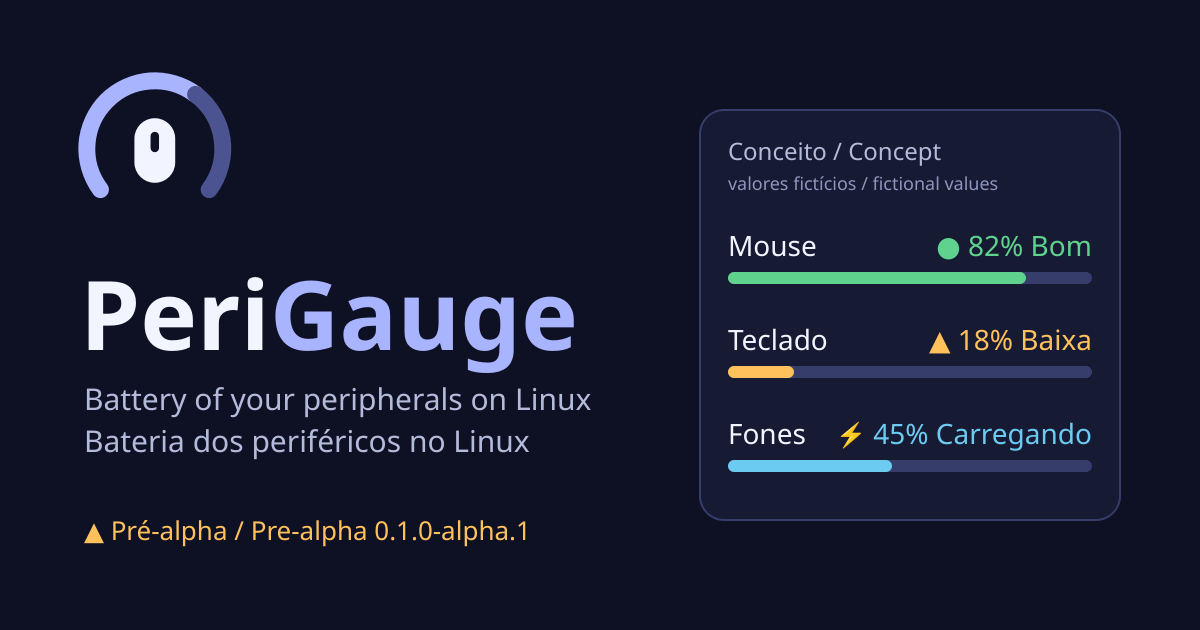
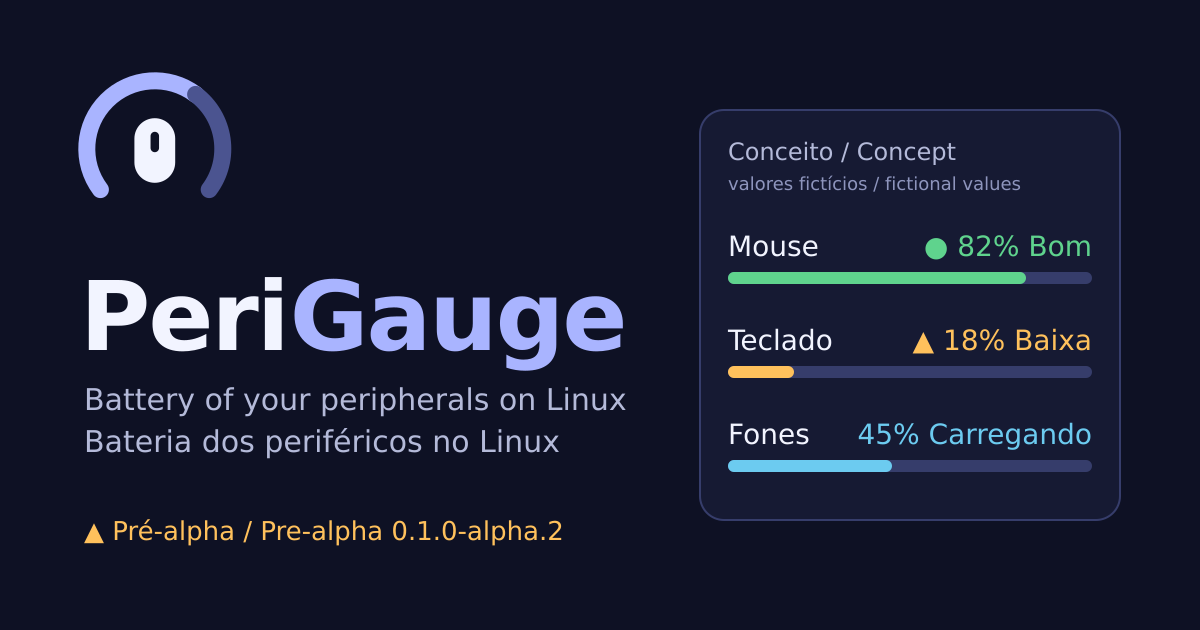
chore(release): prepare 0.1.0-alpha.2

diff --git a/docs/index.html b/docs/index.html
@@ -4,7 +4,7 @@
 <meta charset="utf-8">
 <meta name="viewport" content="width=device-width,initial-scale=1">
 <title>PeriGauge — bateria dos seus periféricos no Linux</title>
-<meta name="description" content="Monitor de bateria de mouses, teclados e fones Bluetooth para o desktop Linux. Núcleo em Rust, local, sem rede e sem telemetria. Pré-alpha 0.1.0-alpha.1.">
+<meta name="description" content="Monitor de bateria de mouses, teclados e fones Bluetooth para o desktop Linux. Núcleo em Rust, local, sem rede e sem telemetria. Pré-alpha 0.1.0-alpha.2.">
 <meta name="color-scheme" content="light dark">
 <meta name="theme-color" content="#F6F7FC" media="(prefers-color-scheme: light)">
 <meta name="theme-color" content="#0E1124" media="(prefers-color-scheme: dark)">
@@ -16,12 +16,12 @@
 <meta property="og:site_name" content="PeriGauge">
 <meta property="og:locale" content="pt_BR">
 <meta property="og:title" content="PeriGauge — bateria dos seus periféricos no Linux">
-<meta property="og:description" content="Monitor de bateria de mouses, teclados e fones Bluetooth para o desktop Linux. Núcleo em Rust, local, sem rede e sem telemetria. Pré-alpha 0.1.0-alpha.1.">
+<meta property="og:description" content="Monitor de bateria de mouses, teclados e fones Bluetooth para o desktop Linux. Núcleo em Rust, local, sem rede e sem telemetria. Pré-alpha 0.1.0-alpha.2.">
 <meta property="og:image" content="https://caiolombello.github.io/perigauge/assets/perigauge-social-card.png">
 <meta property="og:image:type" content="image/png">
 <meta property="og:image:width" content="1200">
 <meta property="og:image:height" content="630">
-<meta property="og:image:alt" content="PeriGauge: bateria dos periféricos no Linux. Pré-alpha 0.1.0-alpha.1.">
+<meta property="og:image:alt" content="PeriGauge: bateria dos periféricos no Linux. Pré-alpha 0.1.0-alpha.2.">
 <meta name="twitter:card" content="summary_large_image">
 <link rel="icon" type="image/svg+xml" href="assets/favicon.svg">
 <link rel="stylesheet" href="style.css">
@@ -40,7 +40,7 @@
  <symbol id="i-gen" viewBox="0 0 24 24"><circle cx="12" cy="12" r="9"/><path d="M12 11v5M12 8v.1"/></symbol>
 </svg>
 
-<p class="prerelease"><span class="wrap" style="display:block"><strong>Pré-alpha 0.1.0-alpha.1.</strong> Verificado em hardware só com o Keychron M6; Logitech e Galaxy Buds ainda dependem de validação em hardware.</span></p>
+<p class="prerelease"><span class="wrap" style="display:block"><strong>Pré-alpha 0.1.0-alpha.2.</strong> Leituras verificadas em hardware com Keychron M6 e Galaxy Buds3 Pro; Logitech ainda depende de validação em hardware.</span></p>
 
 <header class="site-header">
  <div class="wrap header-inner">
@@ -62,7 +62,7 @@
   <div>
    <span class="badge">Pré-alpha · Linux · KDE Plasma 6 primeiro</span>
    <h1>A bateria do mouse, do teclado e dos fones, no seu painel.</h1>
-   <p class="lead">PeriGauge mostra o nível de bateria dos seus periféricos Bluetooth no painel e num popup, e avisa antes de acabar. Um único binário em Rust, tudo local: sem Solaar, sem rede, sem telemetria.</p>
+   <p class="lead">PeriGauge mostra um medidor por dispositivo no painel, na área de trabalho e num popup, e avisa antes de acabar. Escolha gauge circular ou barras, incluindo fone esquerdo, direito e estojo. Um único binário em Rust, tudo local: sem Solaar, sem rede, sem telemetria.</p>
    <div class="actions">
     <a class="btn" href="#instalar">Ver instalação (pré-alpha)</a>
     <a class="btn btn-ghost" href="#dispositivos">Dispositivos suportados</a>
@@ -97,7 +97,7 @@
    <tbody>
     <tr><th scope="row">Keychron M6</th><td>Receptor Keychron Ultra-Link 8K</td><td>Protocolo HID de fornecedor</td><td><span class="state s-ok"><svg class="" aria-hidden="true" focusable="false"><use href="#i-ok"/></svg>Verificado em hardware</span></td><td>Lido de um M6 real pelo receptor Ultra-Link 8K.</td></tr>
     <tr><th scope="row">Logitech MX Keys · MX Master 3S</th><td>Receptor Bolt ou Bluetooth</td><td>HID++ 2.0 direto (sem Solaar)</td><td><span class="state s-warn"><svg class="" aria-hidden="true" focusable="false"><use href="#i-dev"/></svg>Em desenvolvimento</span></td><td>Testes com fixtures; hardware pendente.</td></tr>
-    <tr><th scope="row">Samsung Galaxy Buds3 Pro</th><td>Bluetooth</td><td>Protocolo SPP da Samsung</td><td><span class="state s-warn"><svg class="" aria-hidden="true" focusable="false"><use href="#i-dev"/></svg>Em desenvolvimento</span></td><td>Fone esquerdo, direito e estojo.</td></tr>
+    <tr><th scope="row">Samsung Galaxy Buds3 Pro</th><td>Bluetooth</td><td>Protocolo SPP da Samsung</td><td><span class="state s-ok"><svg class="" aria-hidden="true" focusable="false"><use href="#i-ok"/></svg>Verificado em hardware</span></td><td>Leituras de fone esquerdo, direito e estojo verificadas em hardware.</td></tr>
     <tr><th scope="row">Qualquer dispositivo que o UPower/BlueZ já reporte</th><td>Bluetooth / USB</td><td>UPower e BlueZ (power_supply do kernel, BLE Battery Service, HFP)</td><td><span class="state s-stale"><svg class="" aria-hidden="true" focusable="false"><use href="#i-gen"/></svg>Genérico / esperado</span></td><td>Depende do que o dispositivo reporta; não é garantia por modelo.</td></tr>
    </tbody>
   </table>
@@ -145,11 +145,11 @@
   <h2>Instalação (pré-alpha)</h2>
   <p class="lead">Binário para Linux x86_64 com glibc 2.39 ou superior, testado no Ubuntu 26.04 com KDE Plasma 6. Confira o checksum e simule antes de instalar; tudo vai para o seu usuário, sem sudo. Para compilar do código-fonte, veja o README.</p>
   <div class="code"><pre id="cmds"><code># baixar a release e conferir o checksum
-curl -LO https://github.com/caiolombello/perigauge/releases/download/v0.1.0-alpha.1/perigauge-0.1.0-alpha.1-x86_64-linux.tar.gz
-curl -LO https://github.com/caiolombello/perigauge/releases/download/v0.1.0-alpha.1/SHA256SUMS
+curl -LO https://github.com/caiolombello/perigauge/releases/download/v0.1.0-alpha.2/perigauge-0.1.0-alpha.2-x86_64-linux.tar.gz
+curl -LO https://github.com/caiolombello/perigauge/releases/download/v0.1.0-alpha.2/SHA256SUMS
 sha256sum -c SHA256SUMS
-tar xf perigauge-0.1.0-alpha.1-x86_64-linux.tar.gz
-cd perigauge-0.1.0-alpha.1
+tar xf perigauge-0.1.0-alpha.2-x86_64-linux.tar.gz
+cd perigauge-0.1.0-alpha.2
 # simular; depois instalar com o serviço de notificações
 ./install.sh --dry-run
 ./install.sh --enable-service</code></pre></div>
@@ -166,8 +166,8 @@ cd perigauge-0.1.0-alpha.1
   <p class="eyebrow">Roadmap</p>
   <h2>O que vem a seguir</h2>
   <ul class="grid">
-   <li class="card"><h3>0.1.0-alpha.1</h3><p>Primeiro pré-lançamento, publicado em outubro de 2026.</p></li>
-   <li class="card"><h3>Plasmoid KDE Plasma 6</h3><p>Widget no painel (ícone e popup) e na área de trabalho (medidor, lista ou grade).</p></li>
+   <li class="card"><h3>0.1.0-alpha.2</h3><p>Medidores por dispositivo e alternância entre gauge e barras. Publicado em outubro de 2026.</p></li>
+   <li class="card"><h3>Plasmoid KDE Plasma 6</h3><p>Baterias sempre à vista no painel e na área de trabalho; popup com o mesmo estilo do painel.</p></li>
    <li class="card"><h3>Extensão GNOME Shell</h3><p>Planejada para depois do plasmoid.</p></li>
    <li class="card"><h3>Mais dispositivos</h3><p>Mais periféricos conforme houver hardware para verificar. Cada um com seu nível de evidência.</p></li>
   </ul>

diff --git a/docs/en/index.html b/docs/en/index.html
@@ -4,7 +4,7 @@
 <meta charset="utf-8">
 <meta name="viewport" content="width=device-width,initial-scale=1">
 <title>PeriGauge — peripheral battery on your Linux desktop</title>
-<meta name="description" content="Battery monitor for Bluetooth mice, keyboards and headphones on the Linux desktop. Rust core, fully local, no network, no telemetry. Pre-alpha 0.1.0-alpha.1.">
+<meta name="description" content="Battery monitor for Bluetooth mice, keyboards and headphones on the Linux desktop. Rust core, fully local, no network, no telemetry. Pre-alpha 0.1.0-alpha.2.">
 <meta name="color-scheme" content="light dark">
 <meta name="theme-color" content="#F6F7FC" media="(prefers-color-scheme: light)">
 <meta name="theme-color" content="#0E1124" media="(prefers-color-scheme: dark)">
@@ -16,12 +16,12 @@
 <meta property="og:site_name" content="PeriGauge">
 <meta property="og:locale" content="en_US">
 <meta property="og:title" content="PeriGauge — peripheral battery on your Linux desktop">
-<meta property="og:description" content="Battery monitor for Bluetooth mice, keyboards and headphones on the Linux desktop. Rust core, fully local, no network, no telemetry. Pre-alpha 0.1.0-alpha.1.">
+<meta property="og:description" content="Battery monitor for Bluetooth mice, keyboards and headphones on the Linux desktop. Rust core, fully local, no network, no telemetry. Pre-alpha 0.1.0-alpha.2.">
 <meta property="og:image" content="https://caiolombello.github.io/perigauge/assets/perigauge-social-card.png">
 <meta property="og:image:type" content="image/png">
 <meta property="og:image:width" content="1200">
 <meta property="og:image:height" content="630">
-<meta property="og:image:alt" content="PeriGauge: peripheral battery on Linux. Pre-alpha 0.1.0-alpha.1.">
+<meta property="og:image:alt" content="PeriGauge: peripheral battery on Linux. Pre-alpha 0.1.0-alpha.2.">
 <meta name="twitter:card" content="summary_large_image">
 <link rel="icon" type="image/svg+xml" href="../assets/favicon.svg">
 <link rel="stylesheet" href="../style.css">
@@ -40,7 +40,7 @@
  <symbol id="i-gen" viewBox="0 0 24 24"><circle cx="12" cy="12" r="9"/><path d="M12 11v5M12 8v.1"/></symbol>
 </svg>
 
-<p class="prerelease"><span class="wrap" style="display:block"><strong>Pre-alpha 0.1.0-alpha.1.</strong> Verified on hardware only with the Keychron M6; Logitech and Galaxy Buds still await hardware validation.</span></p>
+<p class="prerelease"><span class="wrap" style="display:block"><strong>Pre-alpha 0.1.0-alpha.2.</strong> Battery readings verified on hardware with Keychron M6 and Galaxy Buds3 Pro; Logitech still awaits hardware validation.</span></p>
 
 <header class="site-header">
  <div class="wrap header-inner">
@@ -62,7 +62,7 @@
   <div>
    <span class="badge">Pre-alpha · Linux · KDE Plasma 6 first</span>
    <h1>Your mouse, keyboard and headphone battery, right in your panel.</h1>
-   <p class="lead">PeriGauge shows the battery level of your Bluetooth peripherals in the panel and in a popup, and warns you before they run out. A single Rust binary, fully local: no Solaar, no network, no telemetry.</p>
+   <p class="lead">PeriGauge shows a meter for each device in the panel, on the desktop and in a popup, and warns you before they run out. Choose circular gauges or bars, including left bud, right bud and case. A single Rust binary, fully local: no Solaar, no network, no telemetry.</p>
    <div class="actions">
     <a class="btn" href="#instalar">See install (pre-alpha)</a>
     <a class="btn btn-ghost" href="#dispositivos">Supported devices</a>
@@ -97,7 +97,7 @@
    <tbody>
     <tr><th scope="row">Keychron M6</th><td>Keychron Ultra-Link 8K receiver</td><td>Vendor HID protocol</td><td><span class="state s-ok"><svg class="" aria-hidden="true" focusable="false"><use href="#i-ok"/></svg>Verified on hardware</span></td><td>Read from a real M6 through the Ultra-Link 8K receiver.</td></tr>
     <tr><th scope="row">Logitech MX Keys · MX Master 3S</th><td>Bolt receiver or Bluetooth</td><td>Direct HID++ 2.0 (no Solaar)</td><td><span class="state s-warn"><svg class="" aria-hidden="true" focusable="false"><use href="#i-dev"/></svg>In development</span></td><td>Fixture-based tests; hardware pending.</td></tr>
-    <tr><th scope="row">Samsung Galaxy Buds3 Pro</th><td>Bluetooth</td><td>Samsung SPP protocol</td><td><span class="state s-warn"><svg class="" aria-hidden="true" focusable="false"><use href="#i-dev"/></svg>In development</span></td><td>Left bud, right bud and case.</td></tr>
+    <tr><th scope="row">Samsung Galaxy Buds3 Pro</th><td>Bluetooth</td><td>Samsung SPP protocol</td><td><span class="state s-ok"><svg class="" aria-hidden="true" focusable="false"><use href="#i-ok"/></svg>Verified on hardware</span></td><td>Left bud, right bud and case readings verified on hardware.</td></tr>
     <tr><th scope="row">Any device UPower/BlueZ already reports</th><td>Bluetooth / USB</td><td>UPower and BlueZ (kernel power_supply, BLE Battery Service, HFP)</td><td><span class="state s-stale"><svg class="" aria-hidden="true" focusable="false"><use href="#i-gen"/></svg>Generic / expected</span></td><td>Depends on what the device reports; not a per-model guarantee.</td></tr>
    </tbody>
   </table>
@@ -145,11 +145,11 @@
   <h2>Install (pre-alpha)</h2>
   <p class="lead">Binary for Linux x86_64 with glibc 2.39 or newer, tested on Ubuntu 26.04 with KDE Plasma 6. Check the checksum and dry-run before installing; everything goes to your user, no sudo. To build from source, see the README.</p>
   <div class="code"><pre id="cmds"><code># download the release and check the checksum
-curl -LO https://github.com/caiolombello/perigauge/releases/download/v0.1.0-alpha.1/perigauge-0.1.0-alpha.1-x86_64-linux.tar.gz
-curl -LO https://github.com/caiolombello/perigauge/releases/download/v0.1.0-alpha.1/SHA256SUMS
+curl -LO https://github.com/caiolombello/perigauge/releases/download/v0.1.0-alpha.2/perigauge-0.1.0-alpha.2-x86_64-linux.tar.gz
+curl -LO https://github.com/caiolombello/perigauge/releases/download/v0.1.0-alpha.2/SHA256SUMS
 sha256sum -c SHA256SUMS
-tar xf perigauge-0.1.0-alpha.1-x86_64-linux.tar.gz
-cd perigauge-0.1.0-alpha.1
+tar xf perigauge-0.1.0-alpha.2-x86_64-linux.tar.gz
+cd perigauge-0.1.0-alpha.2
 # dry-run; then install with the notification service
 ./install.sh --dry-run
 ./install.sh --enable-service</code></pre></div>
@@ -166,8 +166,8 @@ cd perigauge-0.1.0-alpha.1
   <p class="eyebrow">Roadmap</p>
   <h2>What comes next</h2>
   <ul class="grid">
-   <li class="card"><h3>0.1.0-alpha.1</h3><p>First pre-release, published October 2026.</p></li>
-   <li class="card"><h3>KDE Plasma 6 plasmoid</h3><p>Widget for the panel (icon and popup) and the desktop (gauge, list or grid).</p></li>
+   <li class="card"><h3>0.1.0-alpha.2</h3><p>Per-device meters and switching between gauges and bars. Published October 2026.</p></li>
+   <li class="card"><h3>KDE Plasma 6 plasmoid</h3><p>Always-visible batteries in the panel and on the desktop; popup follows the panel style.</p></li>
    <li class="card"><h3>GNOME Shell extension</h3><p>Planned for after the plasmoid.</p></li>
    <li class="card"><h3>More devices</h3><p>More peripherals as hardware is available to verify. Each with its own evidence level.</p></li>
   </ul>

diff --git a/docs/build.py b/docs/build.py
@@ -151,11 +151,11 @@ TPL = r'''<!doctype html>
   <h2>@@h_inst@@</h2>
   <p class="lead">@@inst_lead@@</p>
   <div class="code"><pre id="cmds"><code># @@inst_c1@@
-curl -LO https://github.com/caiolombello/perigauge/releases/download/v0.1.0-alpha.1/perigauge-0.1.0-alpha.1-x86_64-linux.tar.gz
-curl -LO https://github.com/caiolombello/perigauge/releases/download/v0.1.0-alpha.1/SHA256SUMS
+curl -LO https://github.com/caiolombello/perigauge/releases/download/v0.1.0-alpha.2/perigauge-0.1.0-alpha.2-x86_64-linux.tar.gz
+curl -LO https://github.com/caiolombello/perigauge/releases/download/v0.1.0-alpha.2/SHA256SUMS
 sha256sum -c SHA256SUMS
-tar xf perigauge-0.1.0-alpha.1-x86_64-linux.tar.gz
-cd perigauge-0.1.0-alpha.1
+tar xf perigauge-0.1.0-alpha.2-x86_64-linux.tar.gz
+cd perigauge-0.1.0-alpha.2
 # @@inst_c2@@
 ./install.sh --dry-run
 ./install.sh --enable-service</code></pre></div>
@@ -199,7 +199,7 @@ def rows(L):
     R = [
      ("Keychron M6", L["c_ult"], L["c_ult2"], "v", L["ev_v"], L["n_m6"]),
      ("Logitech MX Keys · MX Master 3S", L["c_lg"], L["c_lg2"], "d", L["ev_d"], L["n_lg"]),
-     ("Samsung Galaxy Buds3 Pro", "Bluetooth", L["c_bud"], "d", L["ev_d"], L["n_bud"]),
+     ("Samsung Galaxy Buds3 Pro", "Bluetooth", L["c_bud"], "v", L["ev_v"], L["n_bud"]),
      (L["gen_dev"], L["gen_conn"], L["gen_back"], "g", L["ev_g"], L["n_gen"]),
     ]
     out = []
@@ -211,15 +211,15 @@ PT = dict(
  lang="pt-BR", oglocale="pt_BR", root="", home="./", compat="../COMPATIBILITY.md" if False else "COMPATIBILITY.md",
  canon="https://caiolombello.github.io/perigauge/",
  title="PeriGauge — bateria dos seus periféricos no Linux",
- desc="Monitor de bateria de mouses, teclados e fones Bluetooth para o desktop Linux. Núcleo em Rust, local, sem rede e sem telemetria. Pré-alpha 0.1.0-alpha.1.",
- ogalt="PeriGauge: bateria dos periféricos no Linux. Pré-alpha 0.1.0-alpha.1.",
+ desc="Monitor de bateria de mouses, teclados e fones Bluetooth para o desktop Linux. Núcleo em Rust, local, sem rede e sem telemetria. Pré-alpha 0.1.0-alpha.2.",
+ ogalt="PeriGauge: bateria dos periféricos no Linux. Pré-alpha 0.1.0-alpha.2.",
  skip="Ir para o conteúdo",
- prerelease="<strong>Pré-alpha 0.1.0-alpha.1.</strong> Verificado em hardware só com o Keychron M6; Logitech e Galaxy Buds ainda dependem de validação em hardware.",
+ prerelease="<strong>Pré-alpha 0.1.0-alpha.2.</strong> Leituras verificadas em hardware com Keychron M6 e Galaxy Buds3 Pro; Logitech ainda depende de validação em hardware.",
  navlabel="Seções", langlabel="Idioma",
  n1="Dispositivos", n2="Notificações", n3="Privacidade", n4="Instalação", n5="Roadmap",
  badge="Pré-alpha · Linux · KDE Plasma 6 primeiro",
  h1="A bateria do mouse, do teclado e dos fones, no seu painel.",
- lead="PeriGauge mostra o nível de bateria dos seus periféricos Bluetooth no painel e num popup, e avisa antes de acabar. Um único binário em Rust, tudo local: sem Solaar, sem rede, sem telemetria.",
+ lead="PeriGauge mostra um medidor por dispositivo no painel, na área de trabalho e num popup, e avisa antes de acabar. Escolha gauge circular ou barras, incluindo fone esquerdo, direito e estojo. Um único binário em Rust, tudo local: sem Solaar, sem rede, sem telemetria.",
  cta1="Ver instalação (pré-alpha)", cta2="Dispositivos suportados", gh="Código no GitHub", releases="Releases",
  concepttag="Conceito — não é screenshot", conceptlist="Dispositivos (valores fictícios)",
  mouse="Mouse", kb="Teclado", hp="Fones",
@@ -236,7 +236,7 @@ PT = dict(
  ev_v="Verificado em hardware", ev_d="Em desenvolvimento", ev_g="Genérico / esperado",
  n_m6="Lido de um M6 real pelo receptor Ultra-Link 8K.",
  n_lg="Testes com fixtures; hardware pendente.",
- n_bud="Fone esquerdo, direito e estojo.",
+ n_bud="Leituras de fone esquerdo, direito e estojo verificadas em hardware.",
  gen_dev="Qualquer dispositivo que o UPower/BlueZ já reporte", gen_conn="Bluetooth / USB",
  gen_back="UPower e BlueZ (power_supply do kernel, BLE Battery Service, HFP)",
  n_gen="Depende do que o dispositivo reporta; não é garantia por modelo.",
@@ -263,8 +263,8 @@ PT = dict(
  copy="Copiar comandos", copied="Comandos copiados.", failed="Não foi possível copiar.",
  udev="O acesso HID sem root exige uma regra udev. É um passo explícito e separado, com sudo, documentado no repositório; a instalação nunca o executa sozinha.",
  e5="Roadmap", h_road="O que vem a seguir",
- m1h="0.1.0-alpha.1", m1="Primeiro pré-lançamento, publicado em outubro de 2026.",
- m2h="Plasmoid KDE Plasma 6", m2="Widget no painel (ícone e popup) e na área de trabalho (medidor, lista ou grade).",
+ m1h="0.1.0-alpha.2", m1="Medidores por dispositivo e alternância entre gauge e barras. Publicado em outubro de 2026.",
+ m2h="Plasmoid KDE Plasma 6", m2="Baterias sempre à vista no painel e na área de trabalho; popup com o mesmo estilo do painel.",
  m3h="Extensão GNOME Shell", m3="Planejada para depois do plasmoid.",
  m4h="Mais dispositivos", m4="Mais periféricos conforme houver hardware para verificar. Cada um com seu nível de evidência.",
  foot="PeriGauge · pré-alpha · local-first. Ilustrações são conceitos, não screenshots.",
@@ -275,15 +275,15 @@ EN.update(
  lang="en", oglocale="en_US", root="../", home="./", compat="../COMPATIBILITY.md",
  canon="https://caiolombello.github.io/perigauge/en/",
  title="PeriGauge — peripheral battery on your Linux desktop",
- desc="Battery monitor for Bluetooth mice, keyboards and headphones on the Linux desktop. Rust core, fully local, no network, no telemetry. Pre-alpha 0.1.0-alpha.1.",
- ogalt="PeriGauge: peripheral battery on Linux. Pre-alpha 0.1.0-alpha.1.",
+ desc="Battery monitor for Bluetooth mice, keyboards and headphones on the Linux desktop. Rust core, fully local, no network, no telemetry. Pre-alpha 0.1.0-alpha.2.",
+ ogalt="PeriGauge: peripheral battery on Linux. Pre-alpha 0.1.0-alpha.2.",
  skip="Skip to content",
- prerelease="<strong>Pre-alpha 0.1.0-alpha.1.</strong> Verified on hardware only with the Keychron M6; Logitech and Galaxy Buds still await hardware validation.",
+ prerelease="<strong>Pre-alpha 0.1.0-alpha.2.</strong> Battery readings verified on hardware with Keychron M6 and Galaxy Buds3 Pro; Logitech still awaits hardware validation.",
  navlabel="Sections", langlabel="Language",
  n1="Devices", n2="Notifications", n3="Privacy", n4="Install", n5="Roadmap",
  badge="Pre-alpha · Linux · KDE Plasma 6 first",
  h1="Your mouse, keyboard and headphone battery, right in your panel.",
- lead="PeriGauge shows the battery level of your Bluetooth peripherals in the panel and in a popup, and warns you before they run out. A single Rust binary, fully local: no Solaar, no network, no telemetry.",
+ lead="PeriGauge shows a meter for each device in the panel, on the desktop and in a popup, and warns you before they run out. Choose circular gauges or bars, including left bud, right bud and case. A single Rust binary, fully local: no Solaar, no network, no telemetry.",
  cta1="See install (pre-alpha)", cta2="Supported devices", gh="Source on GitHub", releases="Releases",
  concepttag="Concept — not a screenshot", conceptlist="Devices (fictional values)",
  mouse="Mouse", kb="Keyboard", hp="Headphones",
@@ -300,7 +300,7 @@ EN.update(
  ev_v="Verified on hardware", ev_d="In development", ev_g="Generic / expected",
  n_m6="Read from a real M6 through the Ultra-Link 8K receiver.",
  n_lg="Fixture-based tests; hardware pending.",
- n_bud="Left bud, right bud and case.",
+ n_bud="Left bud, right bud and case readings verified on hardware.",
  gen_dev="Any device UPower/BlueZ already reports", gen_conn="Bluetooth / USB",
  gen_back="UPower and BlueZ (kernel power_supply, BLE Battery Service, HFP)",
  n_gen="Depends on what the device reports; not a per-model guarantee.",
@@ -327,8 +327,8 @@ EN.update(
  copy="Copy commands", copied="Commands copied.", failed="Could not copy.",
  udev="Root-less HID access needs a udev rule. It is an explicit, separate step that uses sudo, documented in the repository; the installer never runs it on its own.",
  e5="Roadmap", h_road="What comes next",
- m1h="0.1.0-alpha.1", m1="First pre-release, published October 2026.",
- m2h="KDE Plasma 6 plasmoid", m2="Widget for the panel (icon and popup) and the desktop (gauge, list or grid).",
+ m1h="0.1.0-alpha.2", m1="Per-device meters and switching between gauges and bars. Published October 2026.",
+ m2h="KDE Plasma 6 plasmoid", m2="Always-visible batteries in the panel and on the desktop; popup follows the panel style.",
  m3h="GNOME Shell extension", m3="Planned for after the plasmoid.",
  m4h="More devices", m4="More peripherals as hardware is available to verify. Each with its own evidence level.",
  foot="PeriGauge · pre-alpha · local-first. Illustrations are concepts, not screenshots.",

diff --git a/README.md b/README.md
@@ -12,10 +12,11 @@
 Battery levels of your wireless mouse, keyboard and earbuds in the Linux
 panel, with low-battery notifications. One Rust binary, local only, no Solaar.
 
-**0.1.0-alpha.1.** Verified on hardware: Keychron M6 through
-the Ultra-Link 8K receiver (KDE Plasma 6.6, Ubuntu 26.04). Logitech HID++ and
-Galaxy Buds are implemented and fixture-tested; hardware validation is
-pending. See [compatibility](docs/COMPATIBILITY.md).
+**0.1.0-alpha.2.** Verified on hardware: Keychron M6 through
+the Ultra-Link 8K receiver and Galaxy Buds3 Pro over Bluetooth (left, right
+and case), on KDE Plasma 6.6 / Ubuntu 26.04. Logitech HID++ is implemented
+and fixture-tested; hardware validation is pending.
+See [compatibility](docs/COMPATIBILITY.md).
 
 | Device | Link | How |
 |---|---|---|
@@ -30,7 +31,7 @@ Linux x86_64 with systemd and D-Bus; KDE Plasma 6 for the widget. From the
 [release](https://github.com/caiolombello/perigauge/releases):
 
 ```sh
-v=0.1.0-alpha.1
+v=0.1.0-alpha.2
 curl -LO https://github.com/caiolombello/perigauge/releases/download/v$v/perigauge-$v-x86_64-linux.tar.gz
 curl -LO https://github.com/caiolombello/perigauge/releases/download/v$v/SHA256SUMS
 sha256sum -c SHA256SUMS
@@ -57,6 +58,12 @@ sudo udevadm control --reload && sudo udevadm trigger --subsystem-match=hidraw
 Remove with `./uninstall.sh` (`--purge` also deletes settings and state).
 
 ## Use
+
+The Plasma widget shows a battery meter for every device on the desktop and
+panel. Earbuds have separate left, right and case meters. Choose circular
+gauges or bars in the widget menu or settings, or use the switch beside
+Refresh in the popup. Each widget saves its own style; the panel and its
+popup share the same choice.
 
 ```sh
 perigauge status            # table

diff --git a/docs/COMPATIBILITY.md b/docs/COMPATIBILITY.md
@@ -1,7 +1,7 @@
 # Compatibilidade do PeriGauge / Compatibility
 
-> **Pré-alpha 0.1.0-alpha.1.** Esta matriz descreve o estado do desenvolvimento, não uma promessa de suporte.
-> *Pre-alpha 0.1.0-alpha.1. This matrix describes development status, not a support promise.*
+> **Pré-alpha 0.1.0-alpha.2.** Esta matriz descreve o estado do desenvolvimento, não uma promessa de suporte.
+> *Pre-alpha 0.1.0-alpha.2. This matrix describes development status, not a support promise.*
 
 ## Níveis de evidência / Evidence levels
 
@@ -20,7 +20,7 @@
 | Logitech MX Keys | Bluetooth | HID++ 2.0 direto (sem Solaar) | Nível de bateria | Em desenvolvimento | Testes com fixtures; hardware pendente. |
 | Logitech MX Master 3S | Receptor Bolt | HID++ 2.0 direto (sem Solaar) | Nível de bateria | Em desenvolvimento | Testes com fixtures; hardware pendente. |
 | Logitech MX Master 3S | Bluetooth | HID++ 2.0 direto (sem Solaar) | Nível de bateria | Em desenvolvimento | Testes com fixtures; hardware pendente. |
-| Samsung Galaxy Buds3 Pro | Bluetooth | Protocolo SPP da Samsung | Bateria do fone esquerdo, do direito e do estojo | Em desenvolvimento | — |
+| Samsung Galaxy Buds3 Pro | Bluetooth | Protocolo SPP da Samsung | Bateria do fone esquerdo, do direito e do estojo | **Verificado em hardware** | Leitura real via backend `galaxy-buds`; verificado no KDE Plasma 6.6 / Ubuntu 26.04. |
 | Qualquer dispositivo que o UPower/BlueZ já reporte | Bluetooth / USB | UPower e BlueZ: `power_supply` do kernel, BLE Battery Service, HFP | Nível reportado pelo dispositivo | Genérico / esperado | Depende do dispositivo; não é garantia por modelo. |
 
 ## Notificações / Notifications

diff --git a/CHANGELOG.md b/CHANGELOG.md
@@ -1,5 +1,20 @@
 # Changelog
 
+## 0.1.0-alpha.2 — 2026-10-08
+
+- Always-visible battery meters for each device on the desktop and panel,
+  including separate left bud, right bud and case readings.
+- Switch between circular gauges and battery bars from the widget menu,
+  settings or popup header. Each widget keeps its own preference; the panel
+  and its popup use the same style.
+- Dedicated mouse, keyboard, earbuds and case icons. Unknown, estimated,
+  stale and out-of-range readings remain identifiable in both styles.
+- The desktop card stays expanded; automatic panel mode shows every device.
+  When enabled, out-of-range readings also keep the tray applet visible.
+- Galaxy Buds3 Pro battery readings (left, right and case) verified on
+  hardware over Bluetooth, alongside the Keychron M6 receiver. Logitech
+  hardware validation remains pending.
+
 ## 0.1.0-alpha.1 — 2026-10-08
 
 First PeriGauge build, replacing the Python `perif-battery` helper.
